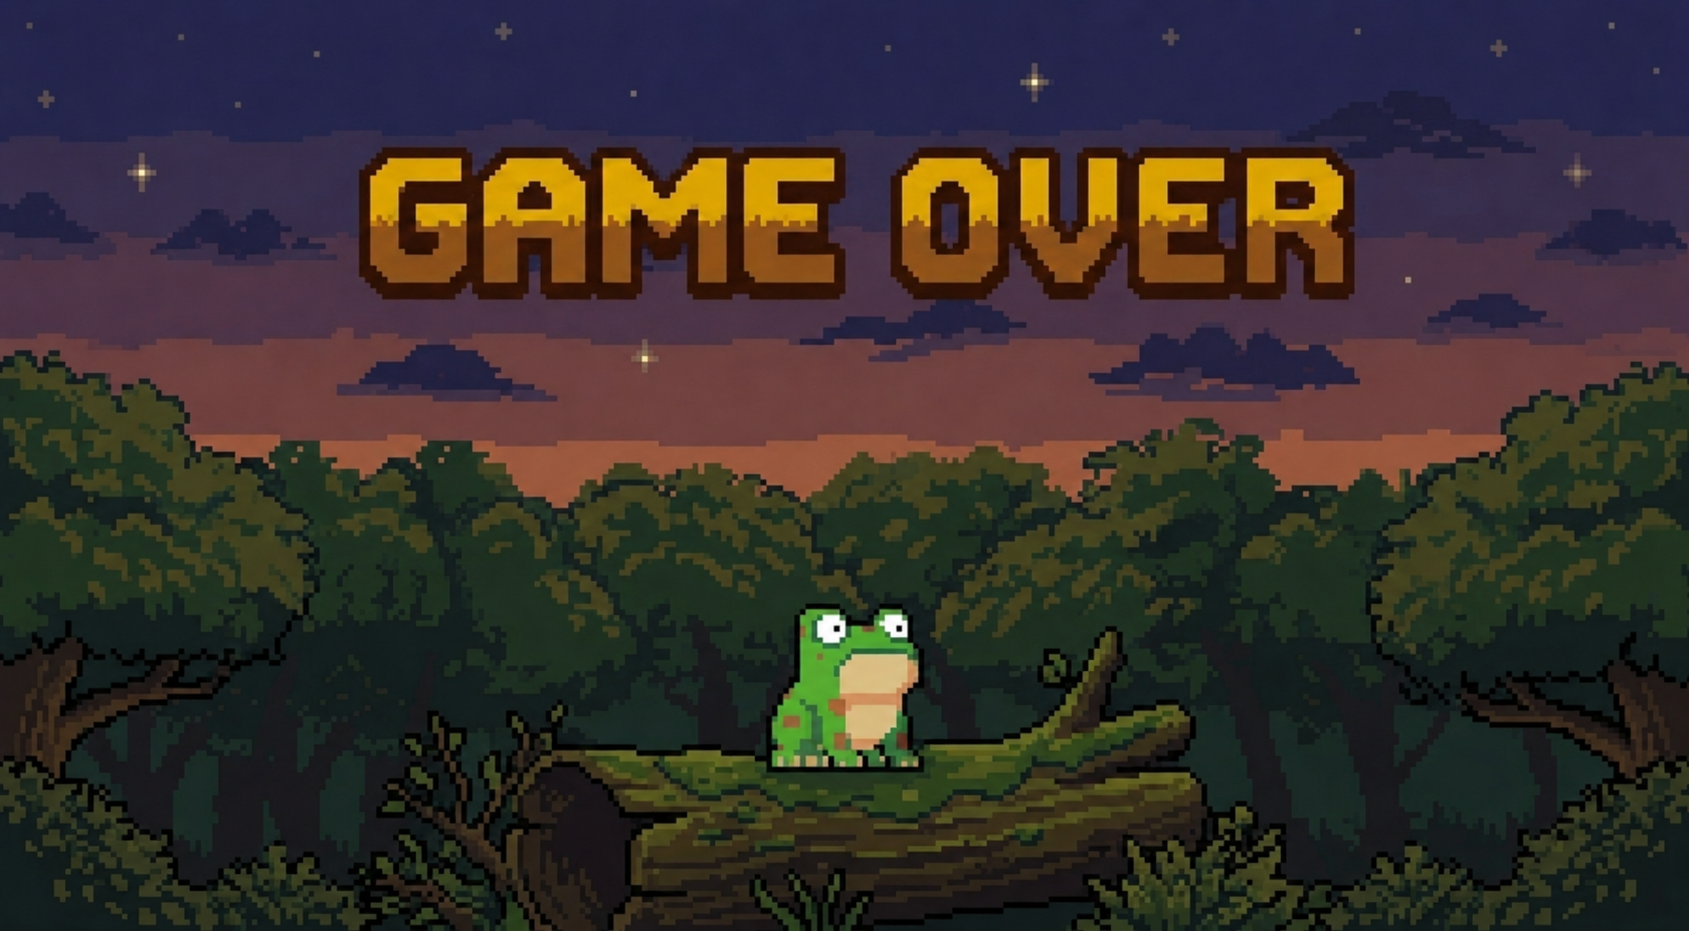
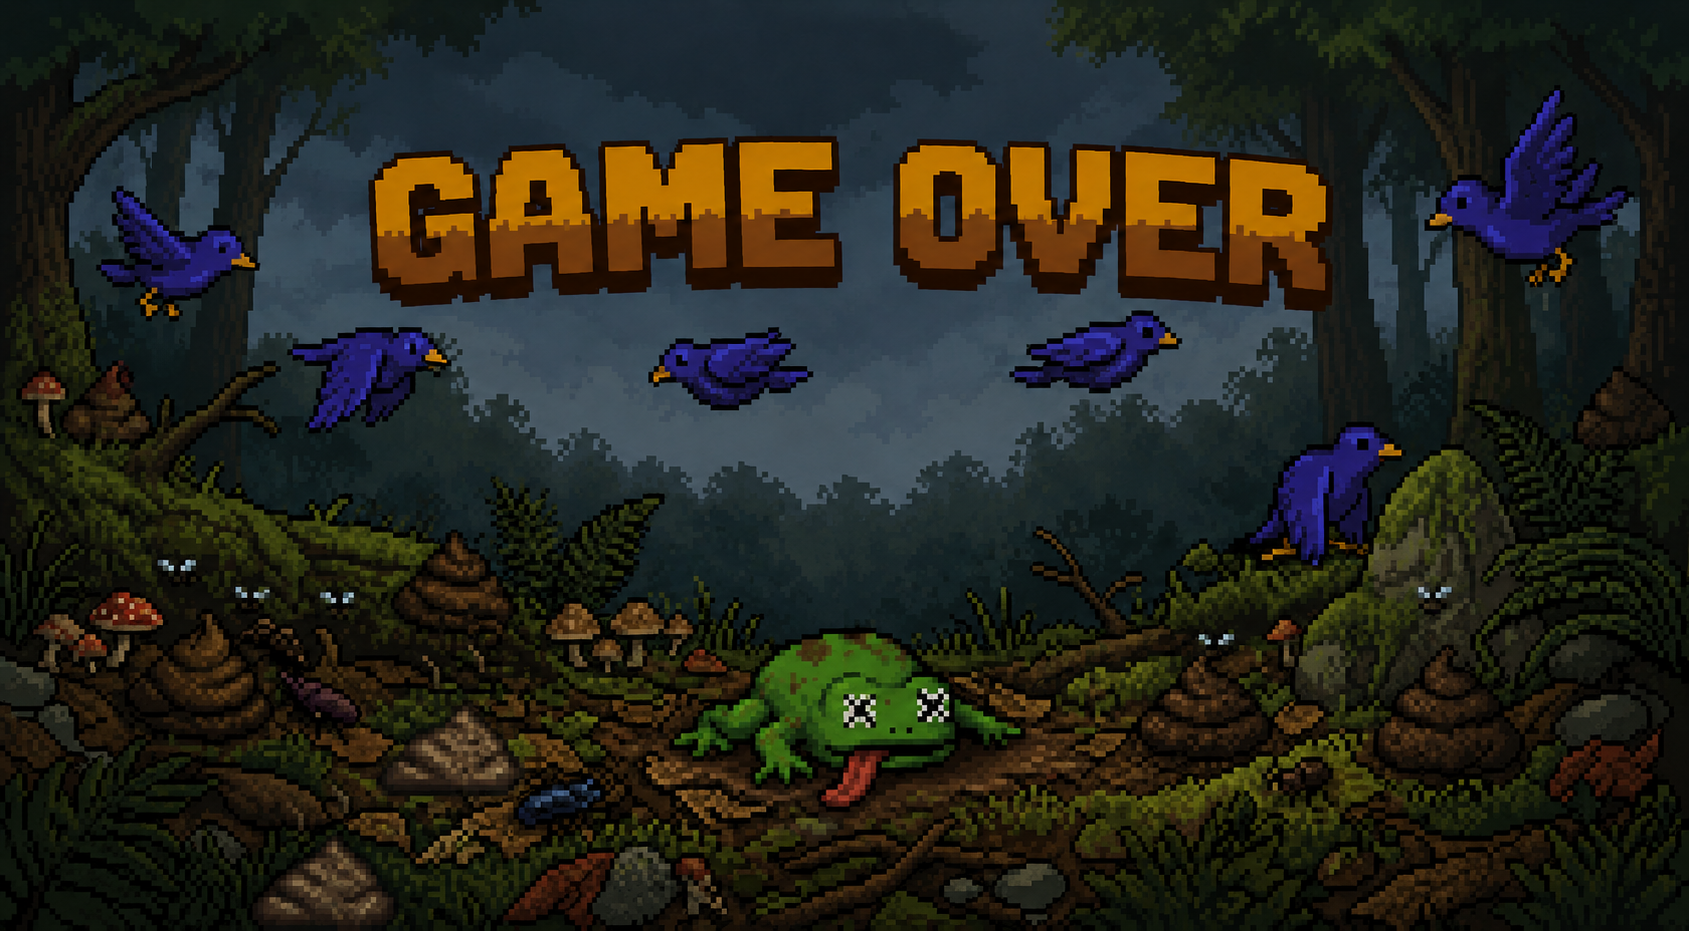
Melhorando a mecânica dos inimigos e adicionando novos sprites

diff --git a/code/Enemie.py b/code/Enemie.py
@@ -38,16 +38,10 @@ class Enemie:
         self.frame_index = 0
         self.animation_timer = 0
         self.animation_speed = 0.15 
+        self.prev_x = self.rect.x 
 
-    def update(self, dt, ground_rect, target_x=None):
-
-        if target_x is not None:
-            if target_x > self.rect.x:
-                self.direction = 1
-            elif target_x < self.rect.x:
-                self.direction = -1
-            else:
-                self.direction = 0
+    def update(self, dt, ground_rect, player_x=None):
+        self.prev_x = self.rect.x
 
         self.rect.x += self.speed * dt * self.direction
         if self.rect.right > window.WIDTH or self.rect.left < 0:
@@ -60,7 +54,6 @@ class Enemie:
             square = pygame.Rect(self.rect.centerx - 10, self.rect.centery, 20, 20)
             self.squares.append(square)
             self.poop_animation_frames[id(square)] = {'frame': 0, 'timer': 0}
-
 
         for square in self.squares[:]:
             square.y += 200 * dt 
@@ -79,6 +72,12 @@ class Enemie:
                     if self.poop_animation_frames[poop_id]['timer'] >= 0.15:
                         self.poop_animation_frames[poop_id]['timer'] = 0
                         self.poop_animation_frames[poop_id]['frame'] = (self.poop_animation_frames[poop_id]['frame'] + 1) % 5
+
+        if player_x is not None:
+            if (self.prev_x < player_x <= self.rect.x) or (self.prev_x > player_x >= self.rect.x):
+                square = pygame.Rect(self.rect.centerx - 10, self.rect.centery, 20, 20)
+                self.squares.append(square)
+                self.poop_animation_frames[id(square)] = {'frame': 0, 'timer': 0}
 
         self.animation_timer += dt
         if self.animation_timer >= self.animation_speed:

diff --git a/code/Level.py b/code/Level.py
@@ -35,6 +35,18 @@ class Level:
             {"image": cloud1_img, "x": 1000, "y": 420, "speed": 25},
         ]
         
+        tree1_img = pygame.image.load(str(ASSETS_DIR / "tree.png")).convert_alpha()
+        tree2_img = pygame.image.load(str(ASSETS_DIR / "tree2.png")).convert_alpha()
+        
+        tree1_img = pygame.transform.scale(tree1_img, (tree1_img.get_width() * 4, tree1_img.get_height() * 4))
+        tree2_img = pygame.transform.scale(tree2_img, (tree2_img.get_width() * 4, tree2_img.get_height() * 4))
+        
+        ground_y = window.HEIGHT - GROUND_HEIGHT
+        self.trees = [
+            {"image": tree1_img, "x": 0, "y": ground_y - tree1_img.get_height() + 3},
+            {"image": tree2_img, "x": 1200, "y": ground_y - tree2_img.get_height()},
+        ]
+        
         self.player = Player()
         self.life = Life()
         self.enemies = [Enemie()]
@@ -61,7 +73,7 @@ class Level:
             
             for index, enemy in enumerate(self.enemies):
                 if index == 0:
-                    enemy.update(dt, self.ground_rect, target_x=self.player.rect.x)
+                    enemy.update(dt, self.ground_rect, player_x=self.player.rect.x)
                 else:
                     enemy.update(dt, self.ground_rect)
                 for square in enemy.squares[:]:
@@ -96,6 +108,10 @@ class Level:
             while x < window.WIDTH:
                 screen.blit(self.grass_tile, (x, ground_y))
                 x += tile_width
+            
+            for tree in self.trees:
+                screen.blit(tree["image"], (tree["x"], tree["y"]))
+            
             self.player.draw(screen)
             for enemy in self.enemies:
                 enemy.draw(screen)